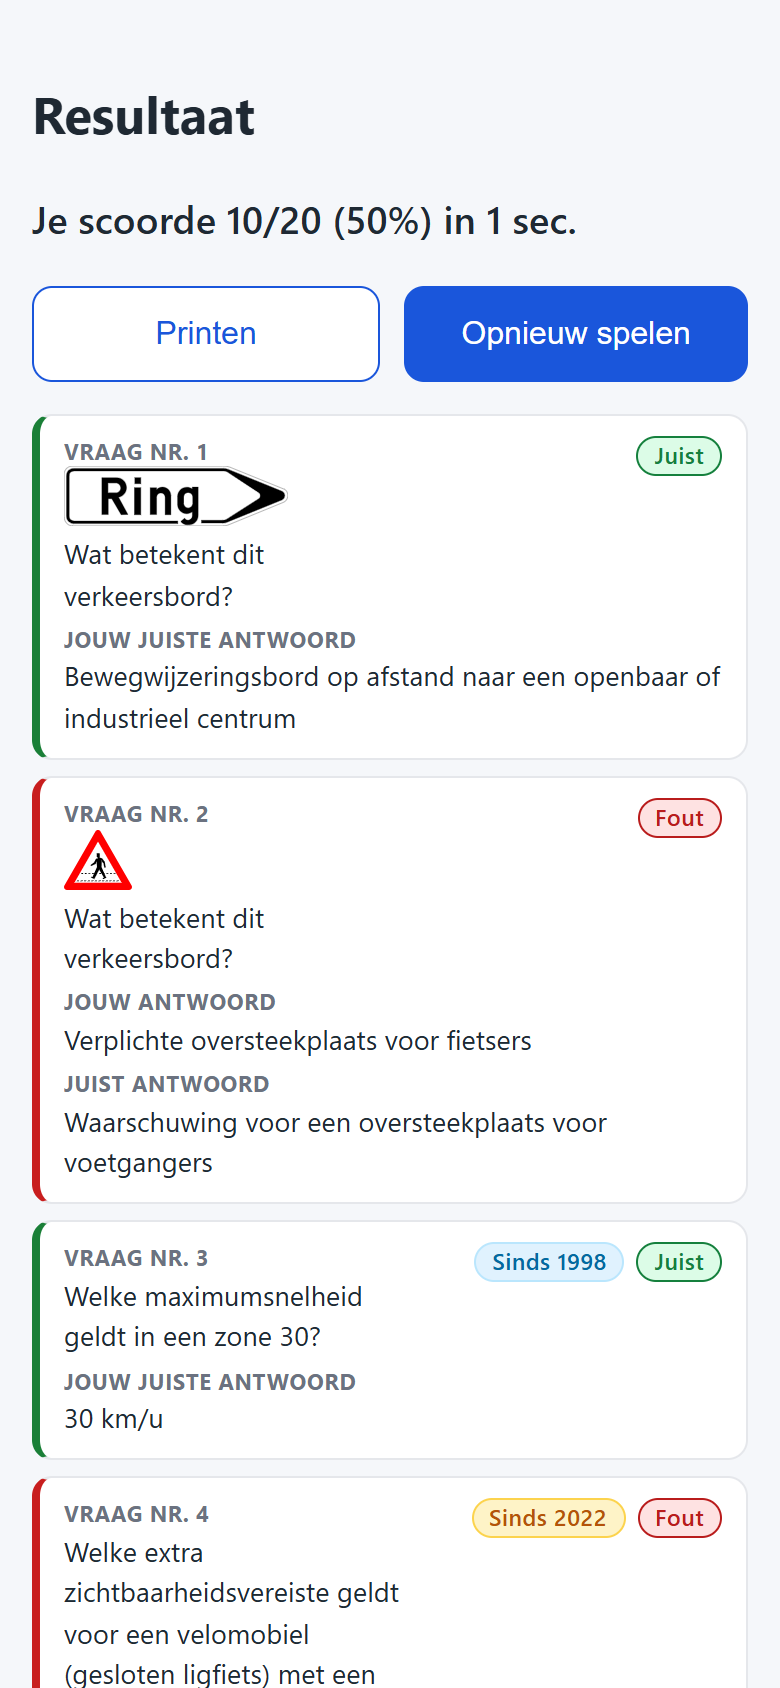
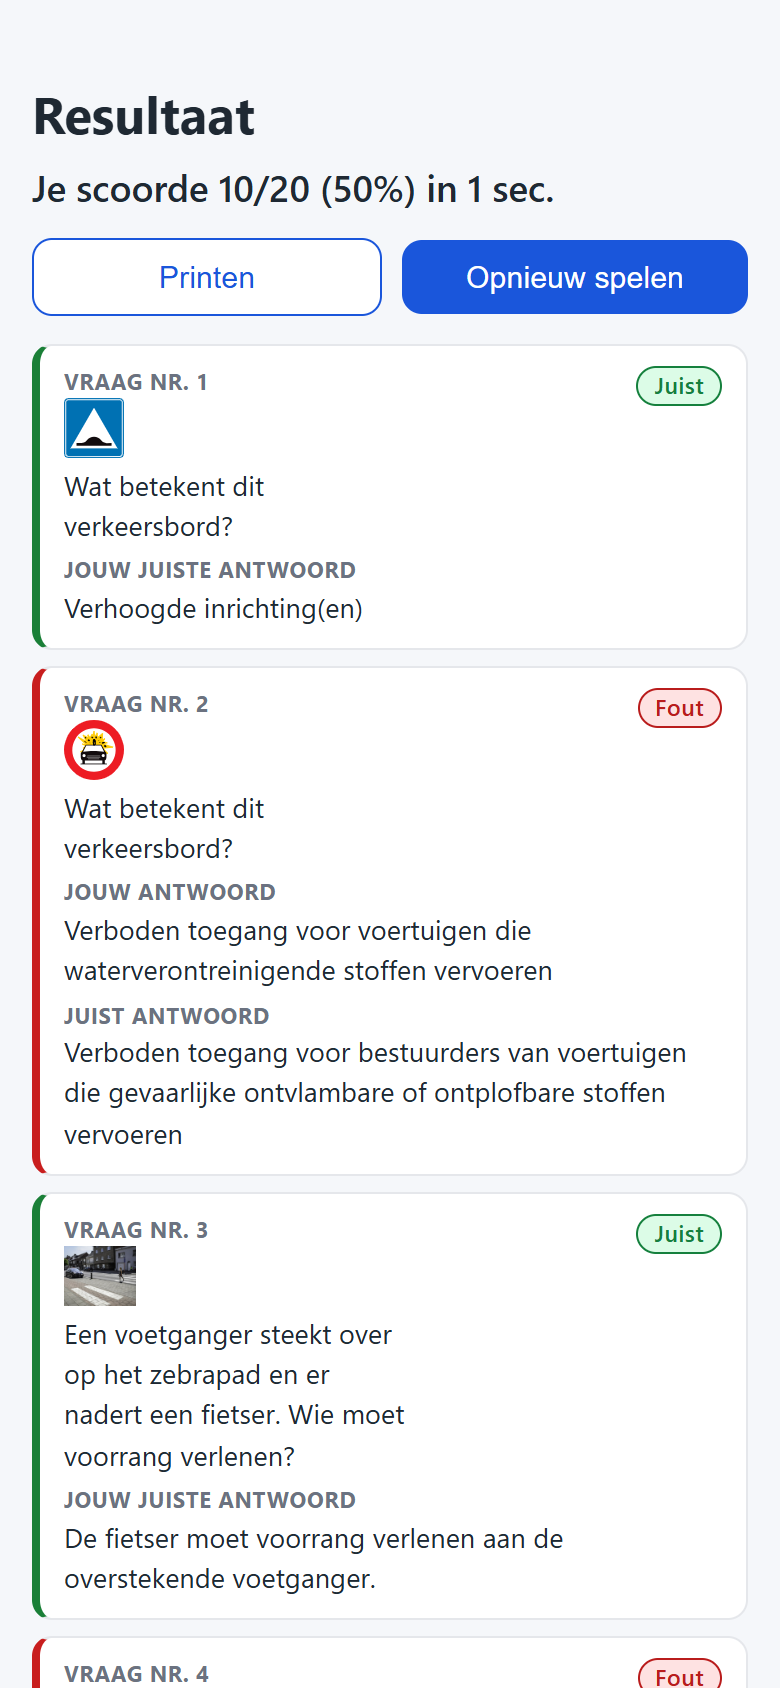
Positioned result action buttons in the top-right corner on desktop while preserving mobile touch layout.

diff --git a/css/style.css b/css/style.css
@@ -515,17 +515,38 @@ button {
   transition: transform 0.15s ease;
 }
 
+.result-header {
+  display: flex;
+  justify-content: space-between;
+  align-items: flex-end;
+  gap: 16px;
+  margin-bottom: 16px;
+}
+
+.result-header-text h1 {
+  margin-bottom: 4px;
+}
+
 #result-summary {
-  font-size: 1.2rem;
+  font-size: 1.15rem;
   font-weight: 600;
+  margin: 0;
 }
 
 .result-actions {
   display: flex;
-  gap: 12px;
-  margin: 16px 0;
+  gap: 10px;
+  align-items: center;
+  flex-shrink: 0;
+  margin: 0;
 }
-.result-actions button { margin-top: 0; flex: 1; }
+.result-actions button {
+  margin-top: 0;
+  width: auto;
+  flex: none;
+  padding: 8px 16px;
+  font-size: 0.88rem;
+}
 
 #result-table {
   width: 100%;
@@ -596,6 +617,22 @@ button {
 
 /* Below tablet width, turn the result table into condensed full-width cards per question */
 @media screen and (max-width: 639px) {
+  .result-header {
+    flex-direction: column;
+    align-items: stretch;
+    gap: 0;
+    margin-bottom: 8px;
+  }
+  .result-actions {
+    margin: 12px 0 6px;
+    width: 100%;
+  }
+  .result-actions button {
+    flex: 1;
+    padding: 10px 14px;
+    font-size: 0.95rem;
+  }
+
   #result-table, #result-table tbody, #result-table tr, #result-table td {
     display: block;
     width: 100%;

diff --git a/index.html b/index.html
@@ -108,11 +108,15 @@
 
   <!-- Result screen -->
   <section id="screen-result" class="screen hidden">
-    <h1>Resultaat</h1>
-    <p id="result-summary"></p>
-    <div class="result-actions no-print">
-      <button id="btn-print" class="btn-secondary">Printen</button>
-      <button id="btn-restart" class="btn-primary">Opnieuw spelen</button>
+    <div class="result-header">
+      <div class="result-header-text">
+        <h1>Resultaat</h1>
+        <p id="result-summary"></p>
+      </div>
+      <div class="result-actions no-print">
+        <button id="btn-print" class="btn-secondary">Printen</button>
+        <button id="btn-restart" class="btn-primary">Opnieuw spelen</button>
+      </div>
     </div>
     <table id="result-table">
       <thead>

diff --git a/tests/test_ux_layout.py b/tests/test_ux_layout.py
@@ -62,6 +62,18 @@ class TestUXLayout(unittest.TestCase):
         self.assertIn(".result-badges-wrap", css, "style.css must declare .result-badges-wrap")
         self.assertIn("padding-right: 155px", css, "style.css must reserve padding for paired badges on mobile")
 
+    def test_result_header_top_right_action_buttons(self) -> None:
+        """Validates that result header positions action buttons in top-right on desktop."""
+        self.assertTrue(INDEX_PATH.exists(), "index.html must exist")
+        self.assertTrue(CSS_PATH.exists(), "style.css must exist")
+        html = INDEX_PATH.read_text(encoding="utf-8")
+        css = CSS_PATH.read_text(encoding="utf-8")
+
+        self.assertIn('class="result-header"', html, "index.html must define result-header")
+        self.assertIn('class="result-header-text"', html, "index.html must define result-header-text")
+        self.assertIn(".result-header", css, "style.css must declare .result-header")
+        self.assertIn("justify-content: space-between", css, "style.css must use space-between in result-header")
+
 
 if __name__ == "__main__":
     unittest.main()

diff --git a/CHANGELOG.md b/CHANGELOG.md
@@ -14,7 +14,7 @@ A summarized overview of all changes, per version of this project.
 ---
 
 ## v2.0.1-pre
-- FrontEnd: Wetswijzigingslabels geharmoniseerd en mobiel gekoppeld aan het resultaatlabel terwijl ze op desktop bij de vraag blijven.
+- FrontEnd: Resultatenknoppen compact rechtsboven geplaatst op desktop en wetswijzigingslabels geharmoniseerd qua typografie.
 - Inhoud: Tien praktijkvragen met foto's van verkeerssituaties toegevoegd inclusief ondersteuning voor filteren via queryparameters.
 - FrontEnd: Vraagtype-filter toegevoegd met visuele startmeldingen en responsieve fotoweergave voor praktijksituaties.
 - FrontEnd: Tweepanelen-layout op desktop en scrollvrije mobiele weergave met zwevende actieknop en compacte wetslink geïmplementeerd.
